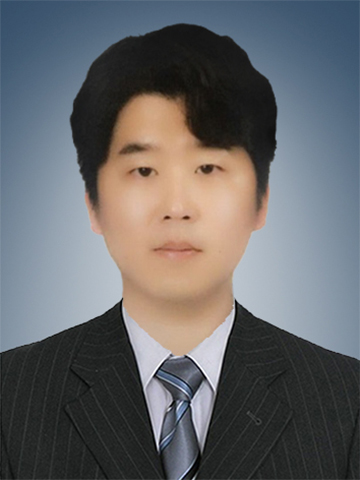
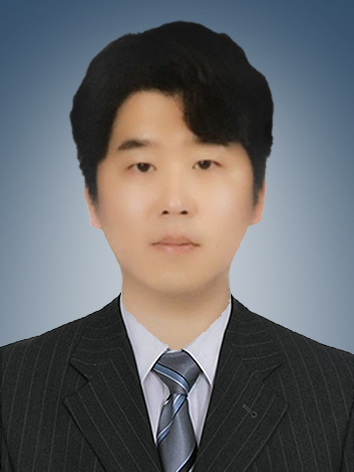
no message

diff --git a/index.html b/index.html
@@ -3,7 +3,7 @@
 <head>
     <meta charset="UTF-8">
     <meta name="viewport" content="width=device-width, initial-scale=1.0">
-    <title>30대 개발자 김민수 입니다.</title>
+    <title>Hello I'm Kim Minsu</title>
     <script src="https://kit.fontawesome.com/b2b9fa9cfa.js" crossorigin="anonymous"></script> 
     <link rel="stylesheet" href="css/style.css">
     <link rel="stylesheet" href="css/standard.css">
@@ -38,7 +38,7 @@
     <!-- Home -->
     <section id="home">
         <div class="home__container">
-            <a href="https://kimkun-87.github.io/Aboutme/index.html"><img src="images/main.png" alt="myphoto" class="home__avatar"></a>
+            <a href="https://kimkun-87.github.io/Aboutme/index.html"><img src="images/kim.jpg" alt="myphoto" class="home__avatar"></a>
             <h2 class="home__title"><span style="color: rgba(247, 247, 247, 0.945);">안녕하세요 30대</span> 개발자 김민수 입니다.</h2>
             <h3 class="home__description"><mark>BLU개발, IT 웹 개발, 영상편집</mark></h3>
             <button class="home__contact">CONTACT ME</button>
@@ -49,15 +49,15 @@
     <section id="about" class="section section__container">
         <h1>About me</h1>
         <p><u>*긍정적인 성격으로 맡은 일은 책임감을 갖고 끝까지 해낸다!!</u></p><br>
-        <p> 긍정적인 성격이고 의사소통 능력이 좋기 때문에 주변 동료나 사람들과 쉽게 친해지고 새로운 환경에도 빨리 적응하는 편입니다.
-            그리고 주어진 일에 대한 책임감이 매우 강합니다.
-            회사에도 비전공자로 입사하여 디스플레이 개발을 했습니다.
-            당연히 모르는 부분도 많았고 개발중인 문제도 많이 발생했지만,
-            그럴 때마다 스트레스를 받기 보다는 문제 해결 방법을 먼저 생각하고 혼자서 해결하지 못할 경우 
-            그 분야의 전문 업체를 방문하여 이것저것 물어보며 끝까지 책임지고 임하였습니다.
-            그러나 기억력이 뛰어나지 못한 부분이 있습니다. 그래서 매 순간 생각나고 듣는 것은 
-            메모를 합니다. 이러한 메모의 습관으로 약속이나 매 주 미리 일정을 정리하는 습관이 생겼으며 
-            이건 업무 하면서 고객과 일정과 업무를 처리하는 부분에 있어서 강점으로 작용 한다고 생각 합니다.            
+        <p> 긍정적인 성격으로 주변 사람들과 쉽게 친해지고 새로운 환경에도 빨리 적응하며
+            주어진 일에 대한 책임감이 매우 강합니다. <br>
+            회사에서 비전공자로 입사하여 개발직을 근무 하고 있습니다. <br>
+            당연히 모르는 부분도 많았고 개발중인 문제도 많이 발생했지만,<br>
+            그럴 때마다 스트레스를 받기 보다는 문제 해결 방법을 먼저 생각하고 혼자서 해결하지 못할 경우 <br>
+            그 분야의 전문 업체를 방문하여 이것저것 물어보며 끝까지 책임지고 임하였습니다. <br>
+            그러나 기억력이 뛰어나지 못한 부분이 있습니다. <br> 
+            그래서 매 순간 생각나고 듣는 것은 메모를 합니다. <br> 
+            이러한 메모의 습관으로 약속이나 매 주 미리 일정을 정리하는 습관이 생겼습니다. <br>
             </p>
 
         <div class="line__job"></div>
@@ -169,6 +169,13 @@
 
             </div>
         </div>
+        
+    </section>
+    <section id="about" class="section hobby">
+        <h1>My daily life and hobbies</h1>
+        <a href="https://keims87.tistory.com/24"target="_blank"><img src="images/JPEG/동숲.jpg" alt="사이트이동" width="600px"></a>
+        <a href="https://keims87.tistory.com/24"target="_blank"><img src="images/JPEG/일상.jpg" alt="사이트이동" width="600px"></a>
+        <a href="https://keims87.tistory.com/24"target="_blank"><img src="images/JPEG/dugod.jpg" alt="사이트이동" width="630px" height="460px"></a>
     </section>
 
     <!-- skills -->

diff --git a/css/style.css b/css/style.css
@@ -157,6 +157,17 @@
     padding: 0 10px;
 }
 
+.hobby img{
+    padding-left: 80px;
+}
+
+.hobby h1{
+    padding-bottom: 30px;
+}
+
+
+
+
 /* .major__icon{
     width: 170px;
     height: 170px;
